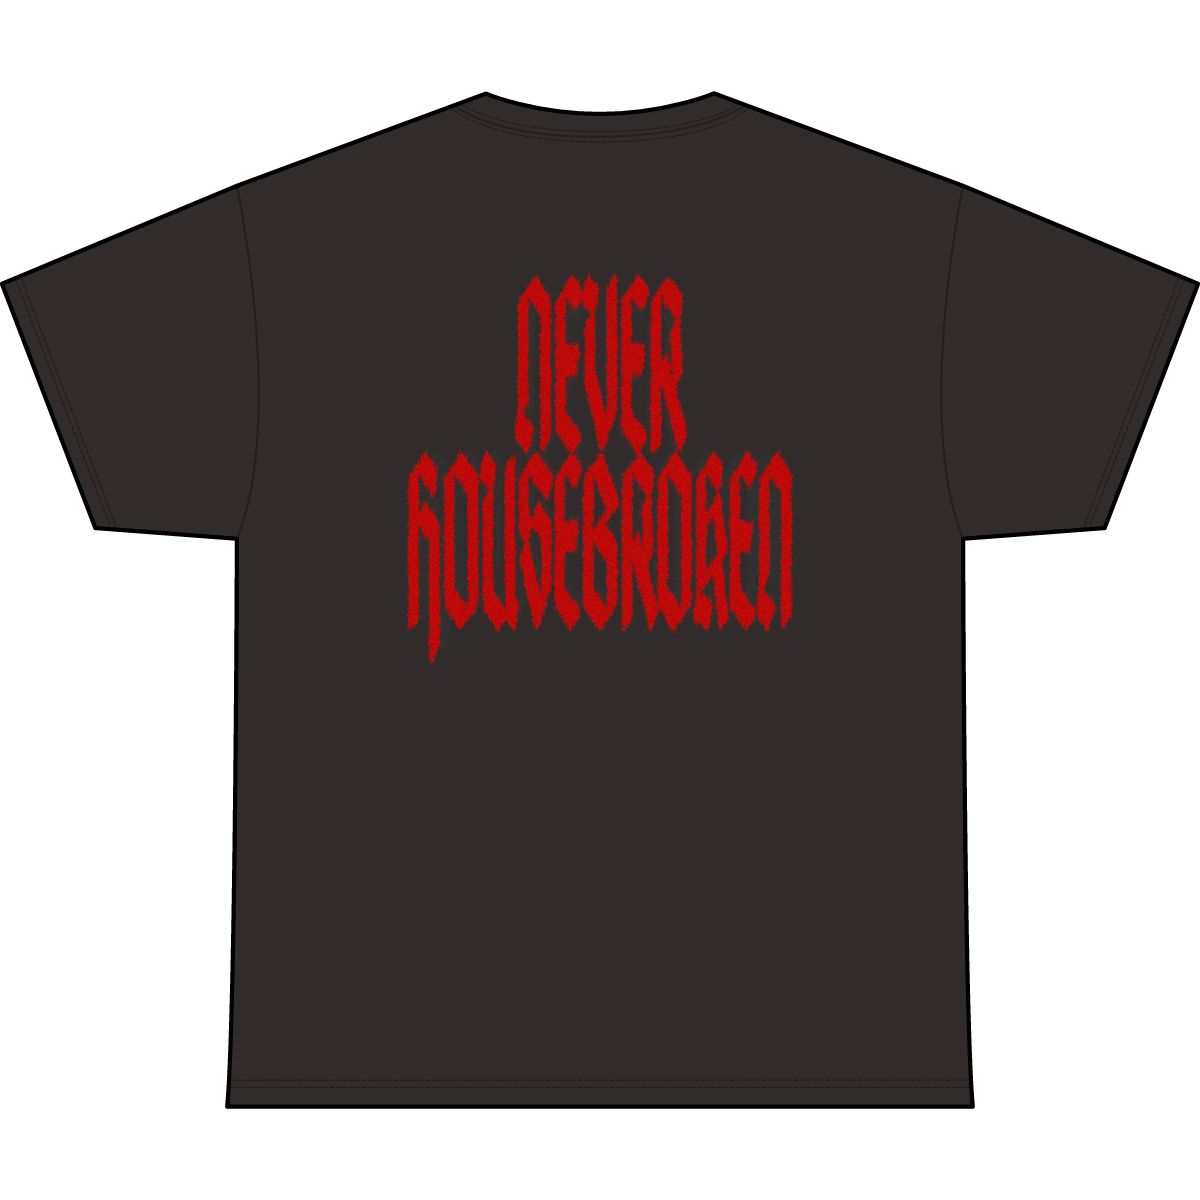
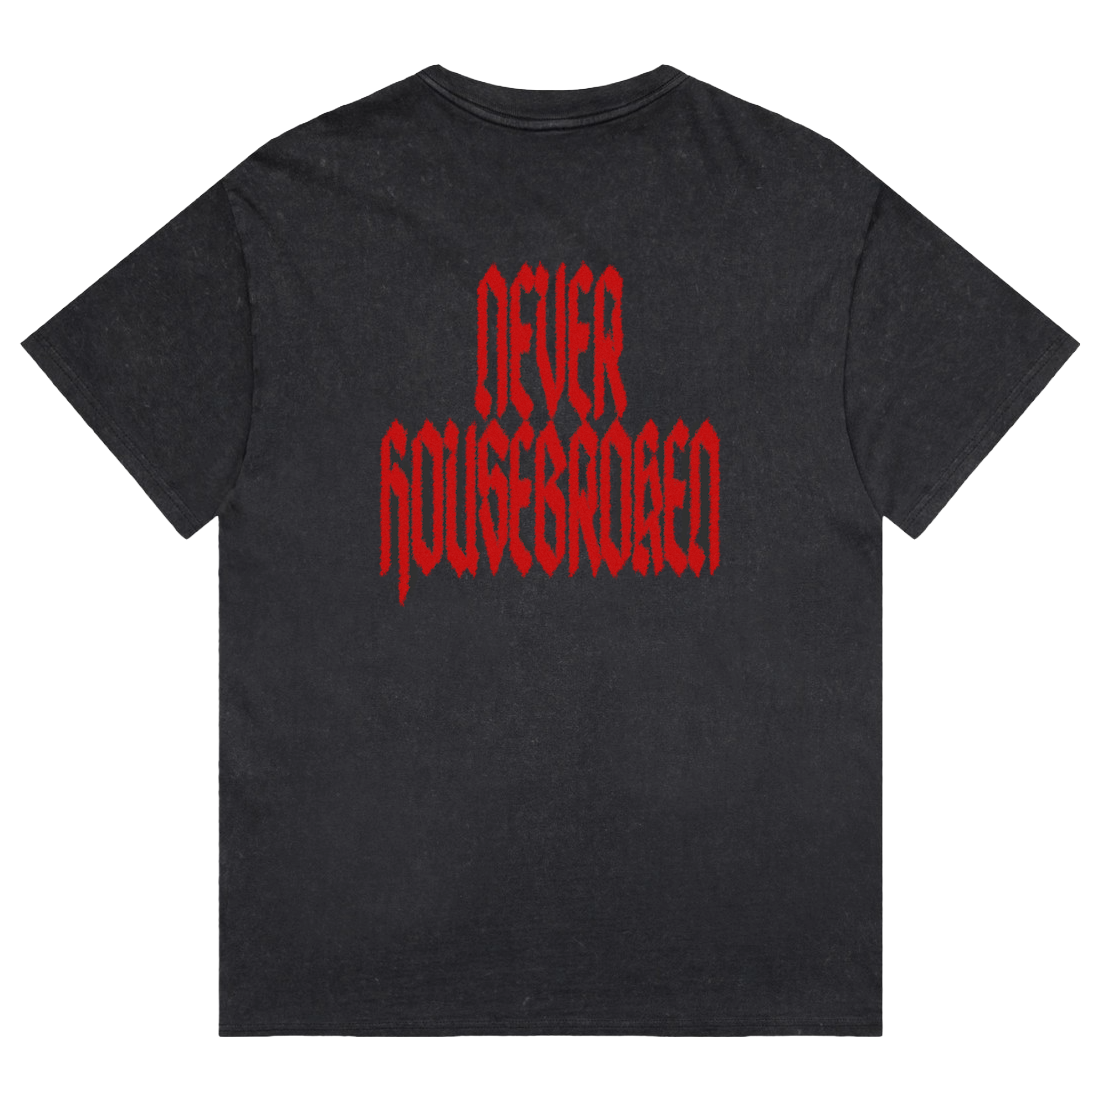
Use correct Pugg Stone Wash Heavy Tee images

diff --git a/store.js b/store.js
@@ -669,14 +669,14 @@ const PRODUCTS = [
     colors: [
       {
         name: 'Black Stone', hex: '#312c2b',
-        image: 'assets/products/pugg-stone-wash-heavy-tee-front.png?v=20261013',
+        image: 'assets/products/pugg-stone-wash-heavy-tee-front.png?v=20261013b',
         images: [
-          'assets/products/pugg-stone-wash-heavy-tee-front.png?v=20261013',
-          'assets/products/pugg-stone-wash-heavy-tee-back.png?v=20261013'
+          'assets/products/pugg-stone-wash-heavy-tee-front.png?v=20261013b',
+          'assets/products/pugg-stone-wash-heavy-tee-back.png?v=20261013b'
         ],
       },
     ],
-    image: 'assets/products/pugg-stone-wash-heavy-tee-front.png?v=20261013',
+    image: 'assets/products/pugg-stone-wash-heavy-tee-front.png?v=20261013b',
     description: "A relaxed heavy tee with dropped shoulders, twin-stitched neck ribbing, and a worn stone wash finish. Side seams, shoulder-to-shoulder tape, double needle hems, and preshrunk fabric add durability while the tear-out label keeps the finish clean."
   },
   {
